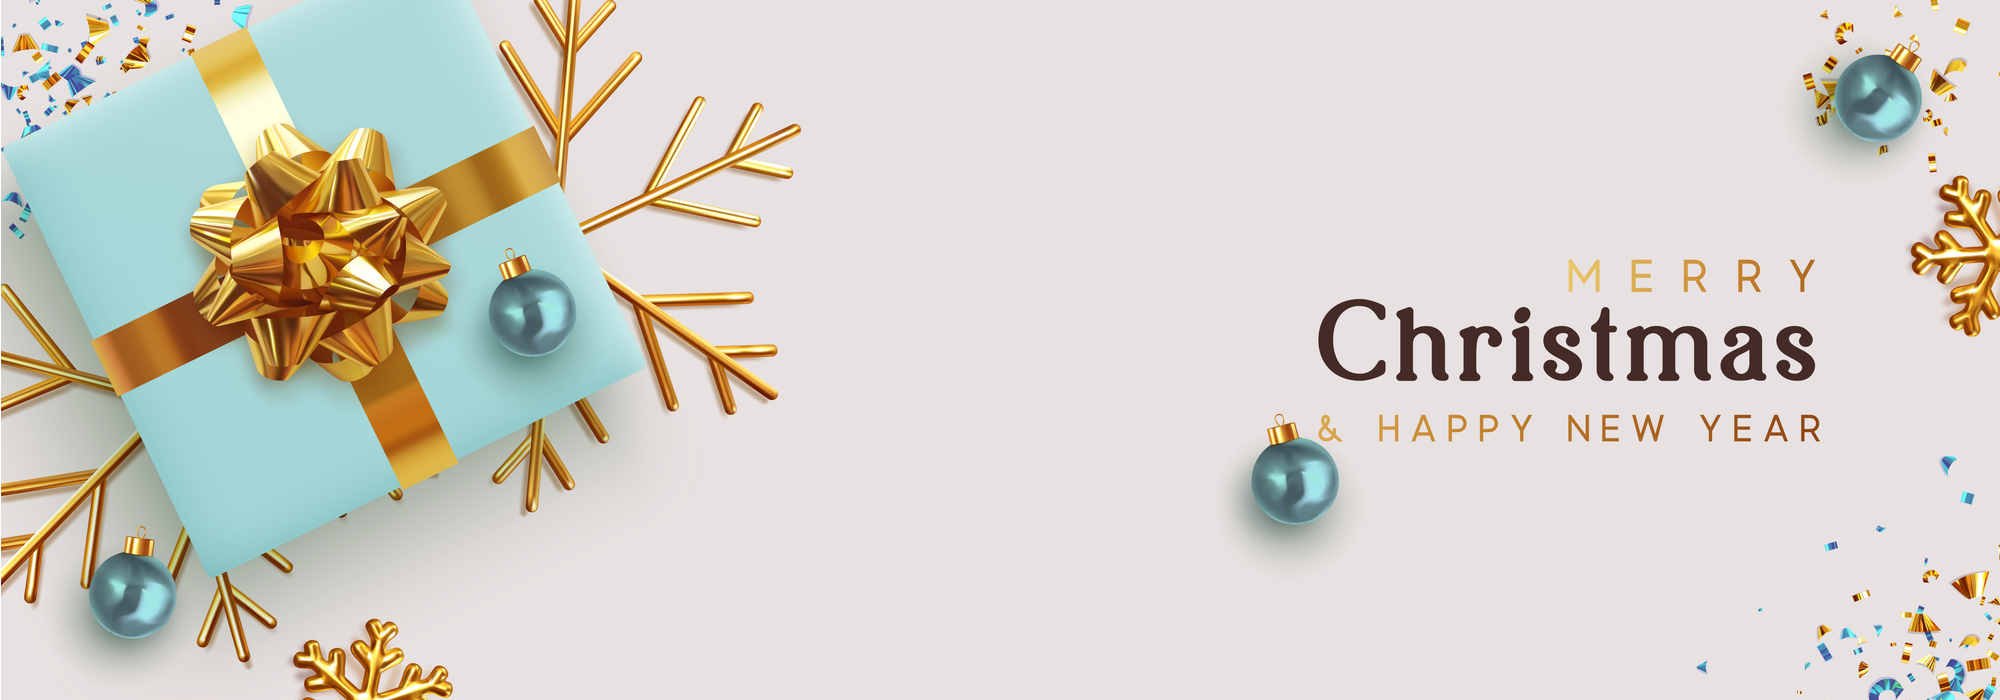
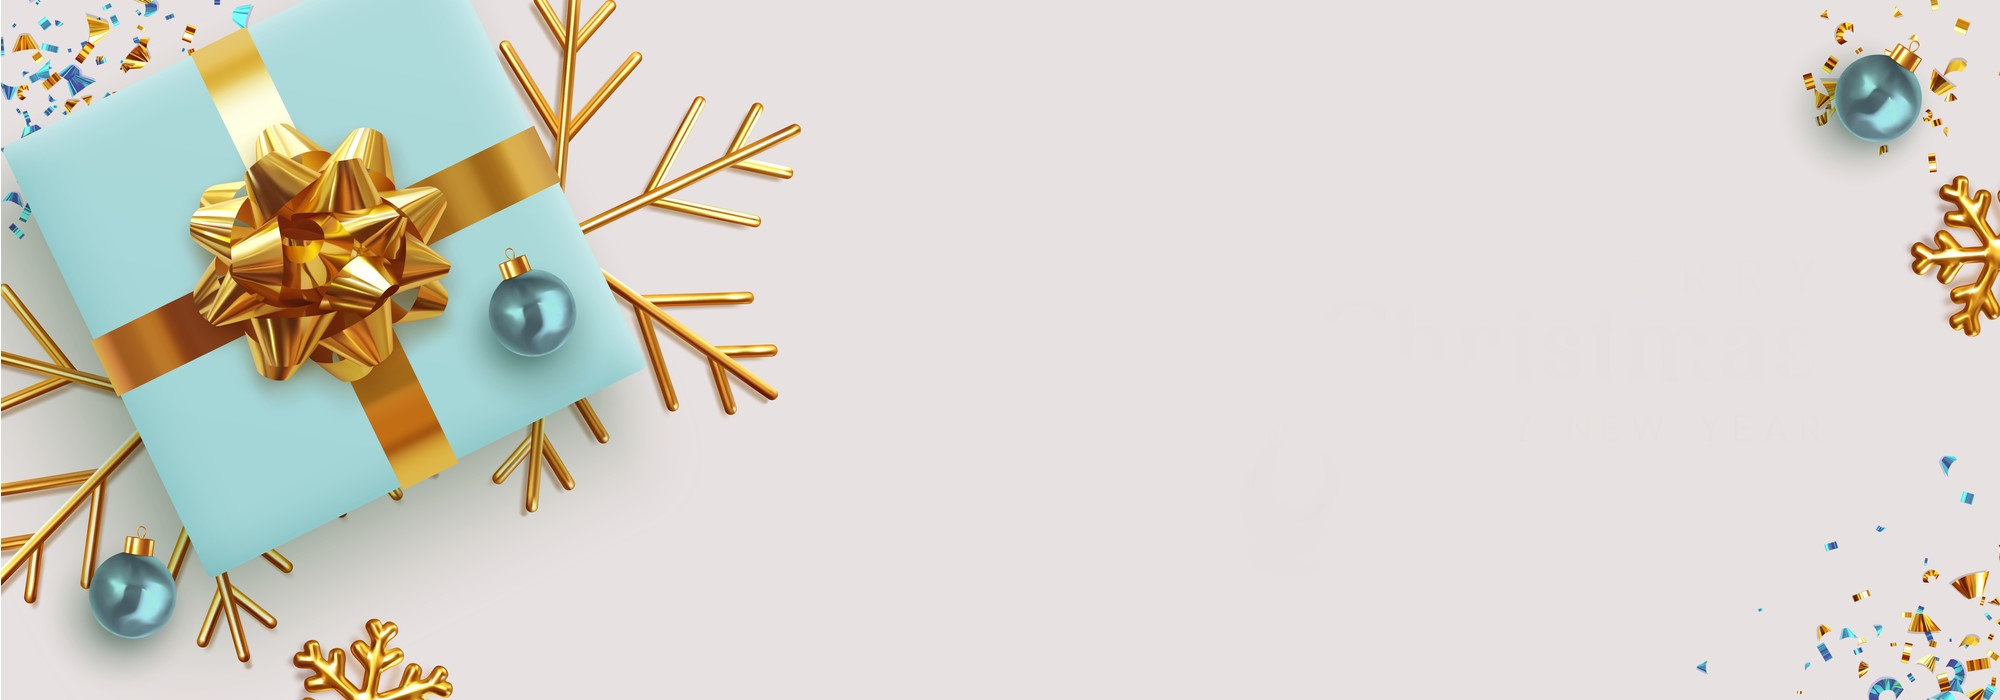
Update 4.52

diff --git a/aboutus.html b/aboutus.html
@@ -73,7 +73,7 @@
                         <a class="dropdown-item" href="primaryprogrammes.html">Primary School Programme</a>
                         <a class="dropdown-item" href="secondaryprogrammes.html">Secondary School Programme</a>
                         <a class="dropdown-item" href="#">Junior College Programme</a>
-                        <a class="dropdown-item" href="curriculum.html">Curriculum</a>
+                        <a class="dropdown-item" href="learningstructure.html">Learning Structure</a>
                         <a class="dropdown-item" href="coursefee.html">Course Fee</a>
                         <a class="dropdown-item" href="events.html">Events</a>
                       </div>
@@ -92,10 +92,31 @@
                   <h1 class="fw-bolder text-center" style="font-size:2.5vw;">About Us</h1>
                   <h4 style="font-size:1.2vw; font-weight: 300;">For over 20 years, we have helped to shape the future of students academically and <br>holistically to achieve beyond classroom success and open them to a world of opportunities.
                   <br><br>From preschool to junior college, we believe that education starts from <br>young and tuition centres are the ones that empower your child to think out of the box.</h4>
-                  <br><a class="btn btn-dark btn-md px-4 findoutmore-btn btn-text" href="curriculum.html"><b>Our Curriculum</b></a>
                 </div>
               </div>
             </header>
+            <section class="py-5" id="primaryschool">
+                <div class="container px-5 my-5">
+                    <div class="row gx-5 align-items-center">
+                        <div class="col-lg-6">
+                            <img class="img-fluid rounded mb-5 mb-lg-0" src="assets/Our-Founder.jpg" alt="primaryschool" /></div>
+                        <div class="col-lg-6">
+                          <h1 class="fw-bolder">Our Founder</h1>
+                          <h3>Dr Lee Guang Shu</h3>
+                          <p class="lead fw-normal mb-3 text-justify">Having obtained a PhD in Education from Harvard Graduate School of Education in the recent years,
+                            Mr Lee is a leading expert in educational sector with more than 30 years of experience in teaching and consultancy projects.
+                            He was actively involved in educational planning, school leadership, assessment of performance, student management and teachers' professional development.
+                            <br><br>He is skilled in structuring syllabus and planning effective curriculum for learning prior to appointments to schools by the Ministry of Education (MOE),
+                            working closely with school principals to evaluate performance of teachers on practicum, providing guidance to teachers and soon-to-be potential school leaders.
+                            Mr Lee, having a full understanding of how the education system in Singapore is, plans the curriculum and learning structure in such a way that your child will be able to achieve stellar grades and enrol into any school of your choice.
+                          </p>
+                          <div class="d-grid gap-3 d-sm-flex justify-content-sm-center justify-content-xl-start">
+                              <a class="btn btn-outline-dark btn-lg px-4" href="curriculum.html">View Our Learning Structure</a>
+                          </div>
+                        </div>
+                    </div>
+                </div>
+            </section>
             <!-- Preschool -->
             <section class="py-3" id="index-bg">
                 <div class="container px-5 my-5">
@@ -162,8 +183,8 @@
                             <h2 class="fw-bolder">Head of Junior College Department</h2>
                             <h3>Mr Loh Yen Feng</h3>
                             <p class="lead fw-normal mb-0 text-justify">A Premier Government Scholarship (PSC) and National Day Award recipient, Mr Loh has a degree in Physics & Applied Physics from National University of Singapore,
-                              Master of Education (Science) from National Institute of Education Singapore. <br><br>Mr Loh has developed curriculum for Singapore's Ministry of Education.
-                              With <b>over 23 years of teaching experience</b>, his effective teaching methods have <b>helped countless students achieve their academic goals and pursuits.</b> </p>
+                              Master of Education (Science) from National Institute of Education Singapore. <br><br>Mr Loh has play a part in developing Junior College Curriculum for Singapore's Ministry of Education.
+                              With <b>over 15 years of teaching experience</b>, his effective teaching methods have <b>helped countless students achieve their academic goals and pursuits.</b> </p>
                         </div>
                     </div>
                 </div>

diff --git a/index.html b/index.html
@@ -72,7 +72,7 @@
                 <a class="dropdown-item" href="primaryprogrammes.html">Primary School Programme</a>
                 <a class="dropdown-item" href="secondaryprogrammes.html">Secondary School Programme</a>
                 <a class="dropdown-item" href="#">Junior College Programme</a>
-                <a class="dropdown-item" href="curriculum.html">Curriculum</a>
+                <a class="dropdown-item" href="learningstructure.html">Learning Structure</a>
                 <a class="dropdown-item" href="coursefee.html">Course Fee</a>
                 <a class="dropdown-item" href="events.html">Events</a>
               </div>
@@ -91,7 +91,7 @@
               <div id="carouselExampleControls" class="carousel slide" data-bs-ride="carousel">
                 <div class="carousel-inner">
                   <div class="carousel-item active">
-                    <img src="assets/Popular-Voucher-Banner-1.jpg" class="d-block w-100" alt="...">
+                    <img src="assets/popular-voucher-banner.jpg" class="d-block w-100" alt="...">
                     <div class="banner-caption-1">
                       <h1>CHRISTMAS CAME EARLY!</h1>
                       <h3>From this month on, we are giving out<span style="font-size:2.2vw; font-weight:700;"> 2 free lessons + $35 Popular gift voucher</span> for the first <span style="font-size:2.2vw; font-weight:700;text-decoration:underline;">300</span>

diff --git a/contactus.html b/contactus.html
@@ -66,11 +66,11 @@
                     </a>
                     <div class="dropdown-menu" aria-labelledby="navbarDropdown">
                       <a class="dropdown-item" href="ourprogrammes.html">Our Programmes</a>
-                      <a class="dropdown-item" href="preschoolprogrammes.html">Preshool</a>
-                      <a class="dropdown-item" href="primaryprogrammes.html">Primary School</a>
-                      <a class="dropdown-item" href="secondaryprogrammes.html">Secondary School</a>
-                      <a class="dropdown-item" href="#">Junior College</a>
-                      <a class="dropdown-item" href="curriculum.html">Curriculum</a>
+                      <a class="dropdown-item" href="preschoolprogrammes.html">Preshool Programme</a>
+                      <a class="dropdown-item" href="primaryprogrammes.html">Primary School Programme</a>
+                      <a class="dropdown-item" href="secondaryprogrammes.html">Secondary School Programme</a>
+                      <a class="dropdown-item" href="#">Junior College Programme</a>
+                      <a class="dropdown-item" href="learningstructure.html">Learning Structure</a>
                       <a class="dropdown-item" href="coursefee.html">Course Fee</a>
                       <a class="dropdown-item" href="events.html">Events</a>
                     </div>

diff --git a/ourprogrammes.html b/ourprogrammes.html
@@ -34,7 +34,7 @@
 
           gtag('config', 'G-8KMB35KK5J');
         </script>
-        
+
         <title>Smart Tuition</title>
     </head>
 
@@ -71,7 +71,7 @@
                     <a class="dropdown-item" href="primaryprogrammes.html">Primary School Programme</a>
                     <a class="dropdown-item" href="secondaryprogrammes.html">Secondary School Programme</a>
                     <a class="dropdown-item" href="#">Junior College Programme</a>
-                    <a class="dropdown-item" href="curriculum.html">Curriculum</a>
+                    <a class="dropdown-item" href="learningstructure.html">Learning Structure</a>
                     <a class="dropdown-item" href="coursefee.html">Course Fee</a>
                     <a class="dropdown-item" href="events.html">Events</a>
                   </div>

diff --git a/coursefee.html b/coursefee.html
@@ -70,7 +70,7 @@
                         <a class="dropdown-item" href="primaryprogrammes.html">Primary School Programme</a>
                         <a class="dropdown-item" href="secondaryprogrammes.html">Secondary School Programme</a>
                         <a class="dropdown-item" href="#">Junior College Programme</a>
-                        <a class="dropdown-item" href="curriculum.html">Curriculum</a>
+                        <a class="dropdown-item" href="learningstructure.html">Learning Structure</a>
                         <a class="dropdown-item" href="coursefee.html">Course Fee</a>
                         <a class="dropdown-item" href="events.html">Events</a>
                       </div>

diff --git a/curriculum.html b/curriculum.html
@@ -70,7 +70,7 @@
                         <a class="dropdown-item" href="primaryprogrammes.html">Primary School Programme</a>
                         <a class="dropdown-item" href="secondaryprogrammes.html">Secondary School Programme</a>
                         <a class="dropdown-item" href="#">Junior College Programme</a>
-                        <a class="dropdown-item" href="curriculum.html">Curriculum</a>
+                        <a class="dropdown-item" href="learningstructure.html">Learning Structure</a>
                         <a class="dropdown-item" href="coursefee.html">Course Fee</a>
                         <a class="dropdown-item" href="events.html">Events</a>
                       </div>

diff --git a/events.html b/events.html
@@ -87,7 +87,7 @@
                         <a class="dropdown-item" href="primaryprogrammes.html">Primary School Programme</a>
                         <a class="dropdown-item" href="secondaryprogrammes.html">Secondary School Programme</a>
                         <a class="dropdown-item" href="#">Junior College Programme</a>
-                        <a class="dropdown-item" href="curriculum.html">Curriculum</a>
+                        <a class="dropdown-item" href="learningstructure.html">Learning Structure</a>
                         <a class="dropdown-item" href="coursefee.html">Course Fee</a>
                         <a class="dropdown-item" href="events.html">Events</a>
                       </div>

diff --git a/preschoolprogrammes.html b/preschoolprogrammes.html
@@ -70,7 +70,7 @@
                         <a class="dropdown-item" href="primaryprogrammes.html">Primary School Programme</a>
                         <a class="dropdown-item" href="secondaryprogrammes.html">Secondary School Programme</a>
                         <a class="dropdown-item" href="#">Junior College Programme</a>
-                        <a class="dropdown-item" href="curriculum.html">Curriculum</a>
+                        <a class="dropdown-item" href="learningstructure.html">Learning Structure</a>
                         <a class="dropdown-item" href="coursefee.html">Course Fee</a>
                         <a class="dropdown-item" href="events.html">Events</a>
                       </div>

diff --git a/achievement.html b/achievement.html
@@ -70,7 +70,7 @@
                     <a class="dropdown-item" href="primaryprogrammes.html">Primary School Programme</a>
                     <a class="dropdown-item" href="secondaryprogrammes.html">Secondary School Programme</a>
                     <a class="dropdown-item" href="#">Junior College Programme</a>
-                    <a class="dropdown-item" href="curriculum.html">Curriculum</a>
+                    <a class="dropdown-item" href="learningstructure.html">Learning Structure</a>
                     <a class="dropdown-item" href="coursefee.html">Course Fee</a>
                     <a class="dropdown-item" href="events.html">Events</a>
                   </div>
